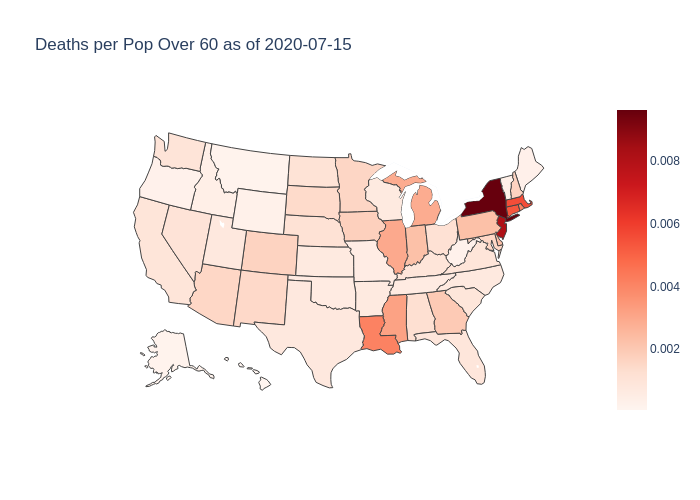
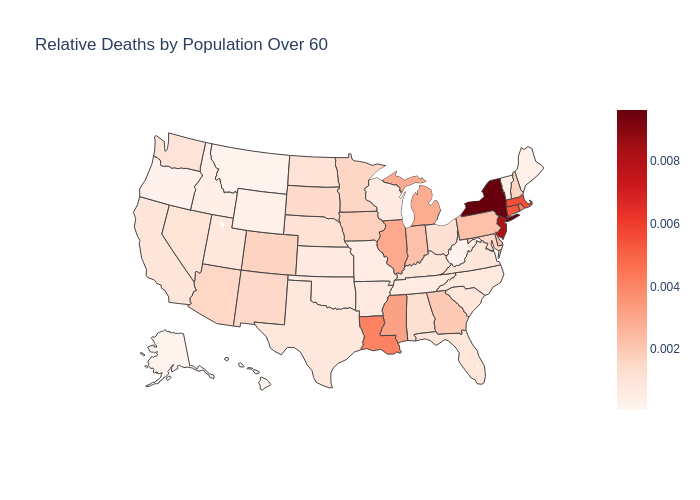
Updated commenting on inference

Changed region(s): [[0.06, 0.06, 0.51, 0.12]]

diff --git a/04-inference.py b/04-inference.py
@@ -92,7 +92,6 @@ def clean_for_race_inference(covid_df, socioecon_df):
     covid_df = covid_df[['date', 'state']]
     # Merge the dataframes by their index which has not changed
     covid_df = pd.merge(covid_df, daily_covid, left_index=True, right_index=True).reset_index(drop=True)
-    # print(covid_df.describe())
 
     return covid_df
 
@@ -143,9 +142,7 @@ def save_sample_population_distribution(covid_df):
 
 def sample_population_adjustments(covid_df):
     covid_df = covid_df.replace(0, np.NaN)
-    # print(covid_df.describe())
-    # Lets count the number of non-nan values so we can get the new sample numbers
-    print(covid_df.describe())
+
     """
     You can see that deaths_aian and deaths_nhpi have many days where 0 deaths are recorded and
     is beyond the 1.5 ratio of deaths_white, deaths_black, deaths_ethnicity_hispanic and deaths_asian.
@@ -154,6 +151,14 @@ def sample_population_adjustments(covid_df):
     removed from the analysis.
     """
     covid_df = covid_df.drop(columns=['deaths_aian', 'deaths_nhpi'])
+    # Remove the negative adjustements
+    numeric_columns = covid_df.drop(columns=['date', 'state'])
+    numeric_columns[numeric_columns < 0] = np.NaN
+    covid_df[['deaths_white', 'deaths_black', 'deaths_ethnicity_hispanic', 'deaths_asian']] = numeric_columns
+    # Lets count the number of non-nan values so we can get the new sample numbers
+    pd.set_option('float_format', '{:f}'.format)
+    print(covid_df.describe())
+
     return covid_df
 
 
@@ -170,9 +175,8 @@ def transform_data(covid_df):
     # scale_df = (scale_df - scale_df.min()) / (scale_df.max() - scale_df.min())
 
     """
-    Scale by some constant factor so that we can transform negative values. Alternatively, we can 
-    simply np.log(scale_df) without scaling and it will handle/ignore negative values. Either way, 
-    it does not impact the final result.
+    Scale by some constant factor so that we have postive values on the x-axis after logging 
+    (more readable)
     """
     # Runtime warning is from NaN which is fine
     scale_df = scale_df * 10000000
@@ -195,7 +199,7 @@ def test_anova(covid_df):
 def test_tukey(covid_df):
     covid_df = covid_df.drop(columns=['date', 'state'])
     melt_df = pd.melt(covid_df).dropna().reset_index(drop=True)
-    print(melt_df)
+    # print(melt_df)
 
     posthoc = pairwise_tukeyhsd(
         melt_df['value'], melt_df['variable'],
@@ -222,6 +226,9 @@ def main():
     Note: In order to do a t-test or ANOVA, the sample sizes must be approximately equal. At the worst, this must
     be a ratio of 1.5/1 between the two samples for unequal variance. If the variance is equal, unequal sample size
     is irrelvant. I think it makes sense to leave the negative adjustments, since they are relatively few.
+
+    UPDATE: I ended up removing the negative adjustments. Althought there are relatively few, there seem to be some
+    quite large changes (anomolies). Removing them leads to a more conservative ANOVA test/results. 
     """
     covid_df = sample_population_adjustments(covid_df)
     check_inference_conditions(covid_df)

diff --git a/02-descriptive_choropleth.py b/02-descriptive_choropleth.py
@@ -39,7 +39,7 @@ def plot_deaths(covid_df):
     ))
 
     fig.update_layout(
-        title_text='Total Deaths per US State as of ' + current_date,
+        title_text='Total Deaths per US State',
         geo_scope='usa',
     )
 
@@ -57,10 +57,11 @@ def plot_death_per_population_over_60(covid_df):
         z=covid_df['death_by_population'].astype(float),
         locationmode='USA-states',
         colorscale='Reds',
+        # colorbar_title="Deaths / Pop. 60+",
     ))
 
     fig.update_layout(
-        title_text='Deaths per Pop Over 60 as of ' + current_date,
+        title_text='Relative Deaths by Population Over 60',
         geo_scope='usa',
     )
 
@@ -78,10 +79,11 @@ def plot_death_per_population_density(covid_df):
         z=covid_df['death_by_density'].astype(float),
         locationmode='USA-states',
         colorscale='Reds',
+        # colorbar_title="Deaths / Pop. Density",
     ))
 
     fig.update_layout(
-        title_text='Deaths per Square Mile (Population Density) ' + current_date,
+        title_text='Relative Deaths by Population Density',
         geo_scope='usa',
     )
 
